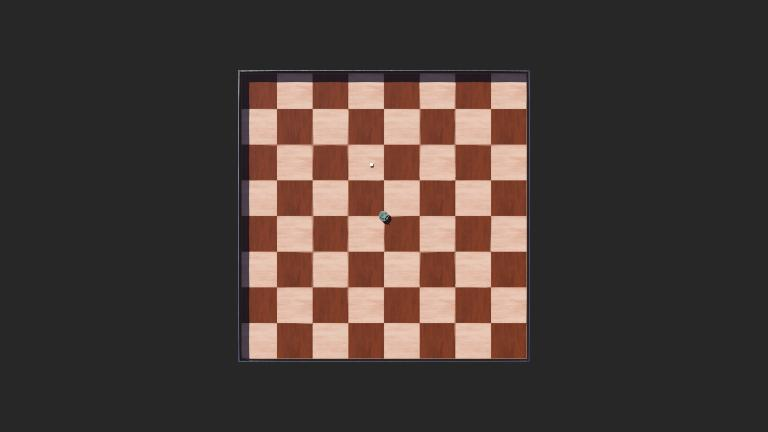
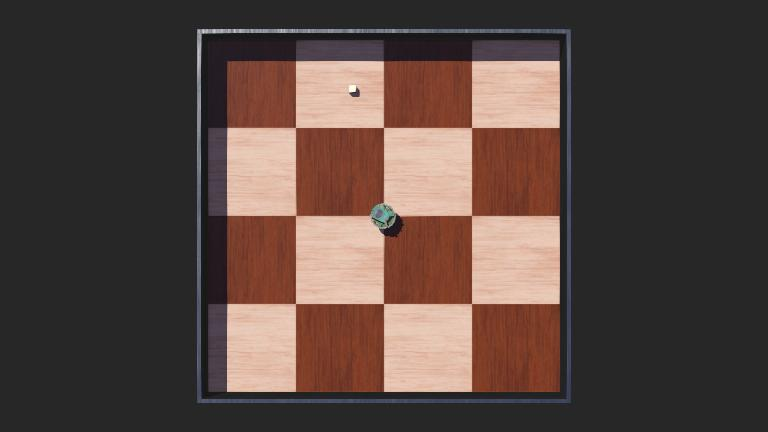
updated TFL1

Changed region(s): [[0.25, 0.0602, 0.75, 0.9329]]

diff --git a/controllers/epuck_targetFinder/TFL1.py b/controllers/epuck_targetFinder/TFL1.py
@@ -30,7 +30,7 @@ class TargetFinderRobo(RobotSupervisorEnv):
         max_obs[3:7] = [1, 1, 1, 1]
         self.observation_space = Box(low=min_obs, high=max_obs, dtype=np.float64)
         # Actions
-        self.action_space = Discrete(4)
+        self.action_space = Discrete(3)
 
         # define the robot
         self.boss = self.getSelf()
@@ -40,7 +40,7 @@ class TargetFinderRobo(RobotSupervisorEnv):
         self.rMotor = self.getDevice('right wheel motor')        
 
         # Episode setup and parameters
-        self.steps_per_episode = 5000
+        self.steps_per_episode = 2000
         self.episode_score = 0
         self.numSteps = 0
         self.episode_score_list = []
@@ -51,9 +51,14 @@ class TargetFinderRobo(RobotSupervisorEnv):
 
         # Environment parameters
         self.arena = self.getFromDef('ARENA').getField('floorSize')
-        self.homeBaseRadius = 0.1 # self.getFromDef('BASE').getField('radius').getSFFloat()
-        self.target = self.getFromDef('TARGET')
-        self.targetField = self.target.getField('translation')
+        self.homeBaseRadius = 0.1 # Central region where targets won't spawn
+
+        # Spawn Targets
+        self.targets = [] 
+        for i in range(10):
+            self.targets.append(self.getFromDef(f'TARGET{i}'))
+        self.intialTargetPositions = [0.0 for _ in range(20)]
+
 
         # Robot controls
         self.rotation_field = self.boss.getField('rotation')
@@ -66,8 +71,7 @@ class TargetFinderRobo(RobotSupervisorEnv):
         obs.append(self.boss.getOrientation()[1]) # orientation
         for ps in self.posSensors:
             obs.append(ps.getValue()/2500)
-        obs.extend(self.targetField.getSFVec3f()[0:2]) # target position
-        obs.extend([0, 0, 0, 0, 0, 0, 0, 0, 0, 0, 0, 0, 0, 0, 0, 0, 0, 0]) # other targets
+        obs.extend(self.intialTargetPositions)
 
         return obs
     
@@ -76,13 +80,13 @@ class TargetFinderRobo(RobotSupervisorEnv):
         maxX /= 2
         maxY /= 2
         if outerBuffer:
-            maxX *= .95
-            maxY *= .95
+            maxX *= .9
+            maxY *= .9
             
         x = np.random.uniform(-maxX, maxX)
         thresh = np.sqrt( abs(self.homeBaseRadius**2-x**2) ) if abs(x) < self.homeBaseRadius else 0
         y = np.random.uniform(thresh, maxY) * np.random.choice([-1, 1])
-        self.targetField.setSFVec3f([x, y, 0.03])
+        t.getField('translation').setSFVec3f([x, y, 0.02])
 
         return x, y
     
@@ -92,20 +96,22 @@ class TargetFinderRobo(RobotSupervisorEnv):
     def get_reward(self, action=None):
         collisionPenalty = 0
 
-        for target in [self.target]:
+        for i in range(len(self.targets)):
+            target = self.targets[i]
             if target.getContactPoints():
-                # You can set the target to some outside area here target.getField('translation').setSFVec3f([-1, someUniqueY, 0.03])
-                self.targetSpawn()
+                target.getField('translation').setSFVec3f([-0.6, self.targets_found*0.02, 0.02])
                 self.numSteps = 0
                 self.targets_found += 1
-                return self.targets_found
+                self.episode_score += self.targets_found*2
+                self.intialTargetPositions[2*i:2*i+2] = [0, 0]
+                return self.targets_found*2
 
         if len(self.boss.getContactPoints()) > 2:
             self.obstacleCollisions += 1
             if self.obstacleCollisions > 0:
                 collisionPenalty = 1
         
-        stepReward = -0.003 - 0.01*(collisionPenalty)
+        stepReward = -0.002 - 0.01*(collisionPenalty)
         self.episode_score += stepReward
         return stepReward
     
@@ -155,11 +161,11 @@ class TargetFinderRobo(RobotSupervisorEnv):
         self.numSteps += 1
         self.moving = True
 
-        if(action == 1):
+        if(action == 0):
             self.moveForward()
-        elif(action == 2):
+        elif(action == 1):
             self.turn(dir=1) # turn right
-        elif(action == 3):
+        elif(action == 2):
             self.turn(dir=-1) # turn left
         else:
             self.noMotion()
@@ -188,7 +194,9 @@ class TargetFinderRobo(RobotSupervisorEnv):
 
     def reset(self):
         resetObs = super().reset()
-        self.targetSpawn()
+        for i in range(len(self.targets)):
+            self.targetSpawn(self.targets[i])
+            self.intialTargetPositions[2*i:2*i+2] = self.targets[i].getField('translation').getSFVec3f()[0:2]
         self.enablePositionSensors()
         self.rotation_field.setSFRotation([0.0, 0.0, 1.0, np.random.uniform(-np.pi, np.pi)])
         self.obstacleCollisions = -15

diff --git a/controllers/epuck_targetFinder/epuck_targetFinder.py b/controllers/epuck_targetFinder/epuck_targetFinder.py
@@ -1,5 +1,6 @@
 from agents.PPO_agent import PPOAgent, Transition
-from TargetFinderRobo import TargetFinderRobo
+# from TargetFinderRobo import TargetFinderRobo
+from TFL1 import TargetFinderRobo
 
 
 
@@ -33,7 +34,6 @@ while not solved and episode_count < episode_limit:
 
         # take the action
         new_obs, reward, done, info = env.step(selected_action)
-        assert len(new_obs) == len(env.get_default_observation()), f"went all wrong at step: {env.numSteps}"
         
         # Save the transtion in memory for training
         trans = Transition(observation, selected_action, action_prob, reward, new_obs)
@@ -60,6 +60,7 @@ if not solved:
     print("Task is not solved, deploying for testing...")
 else:
     print("Agent is ready for deployment. Deploying now...")
+    agent.save('models/TFL1', best=True)
 
 observation = env.reset()
 env.episode_score = 0.0

diff --git a/controllers/epuck_targetFinder/TargetFinderRobo.py b/controllers/epuck_targetFinder/TargetFinderRobo.py
@@ -96,6 +96,7 @@ class TargetFinderRobo(RobotSupervisorEnv):
                 self.targetSpawn()
                 self.numSteps = 0
                 self.targets_found += 1
+                self.episode_score += self.targets_found*2
                 return self.targets_found*2
 
         if len(self.boss.getContactPoints()) > 2:
